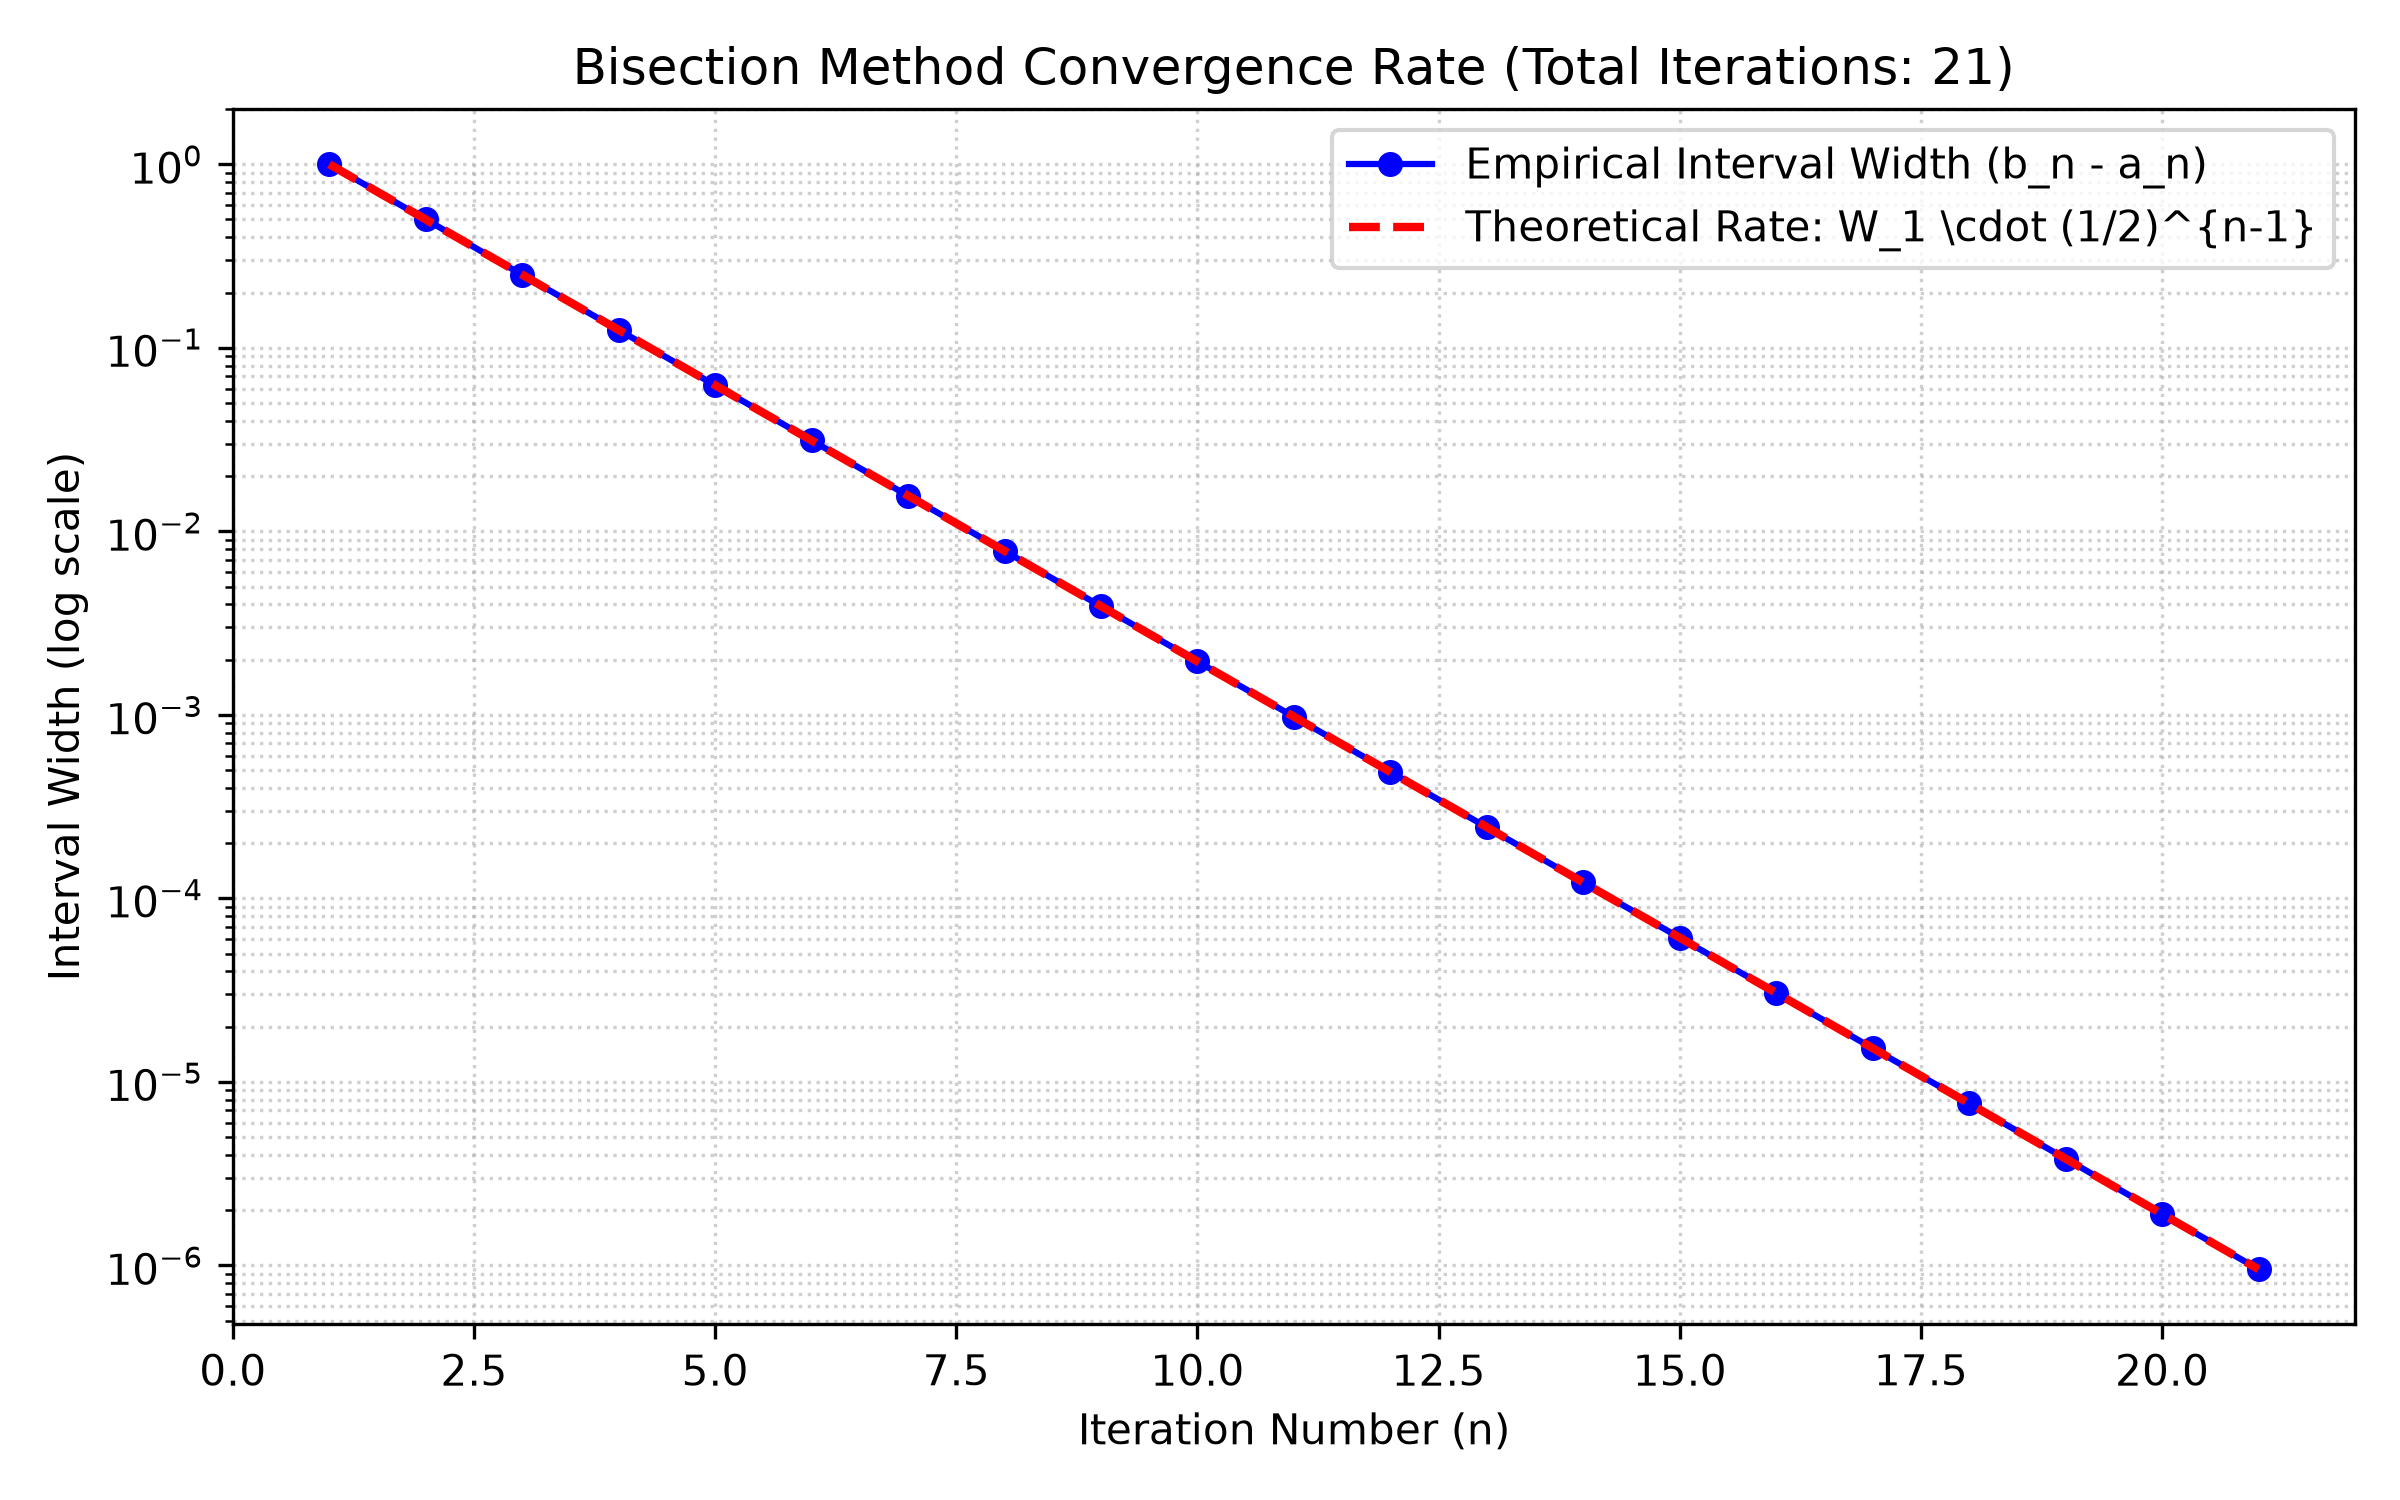
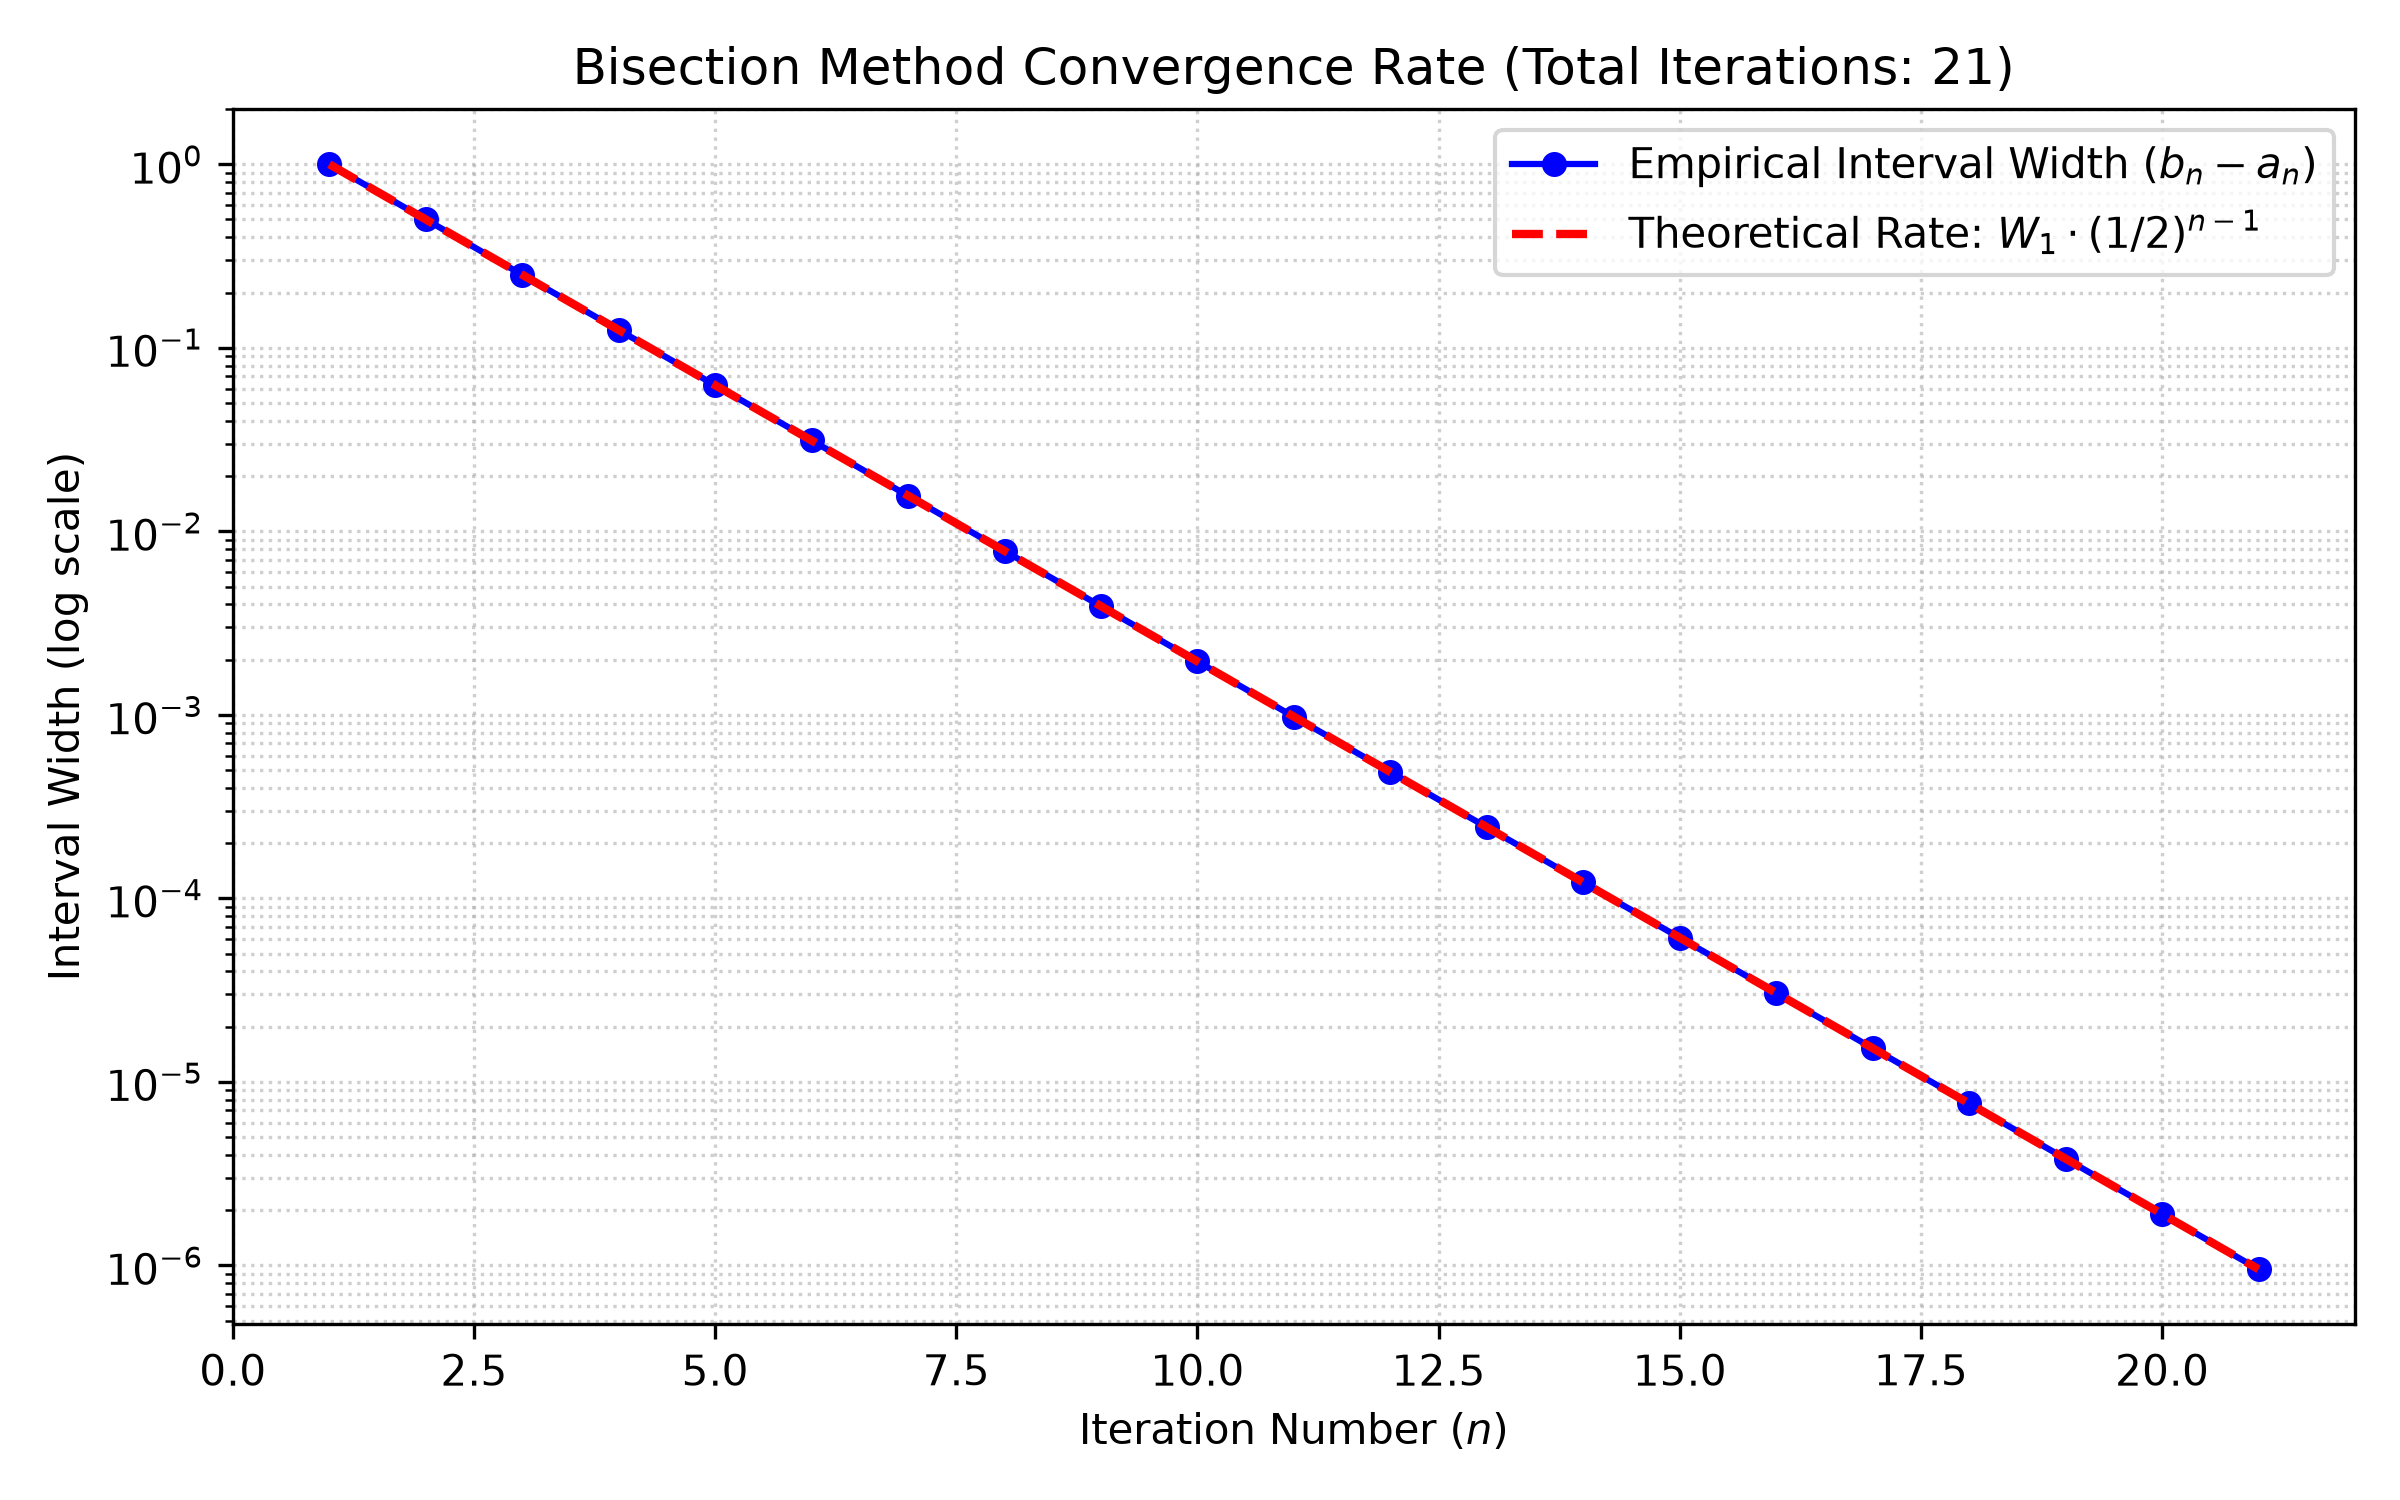
Add bisection method implementation

Changed region(s): [[0.5625, 0.092, 0.9688, 0.184], [0.5625, 0.9507, 0.625, 0.9813], [0.4688, 0.9507, 0.5, 0.9813]]

diff --git a/assignment_1/bisection_method.py b/assignment_1/bisection_method.py
@@ -45,6 +45,7 @@ def bisection(
     1.4142
     """
 
+<<<<<<< Updated upstream
     if not callable(f):
         raise TypeError(
             f"Parameter 'f' must be a callable function (e.g., lambda x: ...). Got type {type(f).__name__}."
@@ -52,6 +53,17 @@ def bisection(
 
     if a >= b:
         raise ValueError(a, " must be strictly less than", b)
+=======
+
+    if not callable(f): 
+        hint = " If you passed a SymPy expression, convert it using sympy.lambdify." if hasattr(f, "free_symbols") or str(type(f)).startswith("<class 'sympy") else ""
+        raise TypeError(
+            f"Parameter 'f' must be a callable function (e.g., lambda x: ...). Got type {type(f).__name__}.{hint}"
+        )
+
+    if a >= b :
+        raise ValueError(f"Endpoint 'a' must be strictly less than 'b' (a < b). Got a = {a}, b = {b}.")
+>>>>>>> Stashed changes
 
     if tol <= 0:
         raise ValueError("Tolerance has to be greater than 0")
@@ -88,9 +100,16 @@ def bisection(
             "a_priori_iterations": int(np.ceil(np.log2((b - a) / tol))),
         }
 
+    
+
     if np.sign(fa) * np.sign(fb) >= 0:
         raise ValueError(
+<<<<<<< Updated upstream
             "root is not bracketed product of fa and fb must have opp signs"
+=======
+            f"Root is not bracketed: f(a) and f(b) must have opposite signs (f(a)*f(b) < 0). "
+            f"Got f({a}) = {fa} and f({b}) = {fb}."
+>>>>>>> Stashed changes
         )
 
     p_prev = None
@@ -100,8 +119,18 @@ def bisection(
 
     a_priori_iterations = int(np.ceil(np.log2((b - a) / tol)))
 
+<<<<<<< Updated upstream
     for n in range(1, max_iter + 1):
         p = a + (b - a) / 2
+=======
+    if verbose:
+        print(f"{'n':<5} | {'a':<14} | {'b':<14} | {'p':<14} | {'f(p)':<14} | {'Width':<12}")
+        print("-" * 80)
+
+
+    for n in range (1 , max_iter+1):
+        p = a + (b-a)/2 
+>>>>>>> Stashed changes
         fp = f(p)
 
         interval_w = interval(a, b)
@@ -178,7 +207,7 @@ def plot_convergence(result):
         iterations,
         interval_widths,
         "bo-",
-        label="Empirical Interval Width (b_n - a_n)",
+        label="Empirical Interval Width $(b_n - a_n)$",
         linewidth=1.5,
         markersize=5,
     )
@@ -186,11 +215,11 @@ def plot_convergence(result):
         iterations,
         theoretical_widths,
         "r--",
-        label="Theoretical Rate: W_1 \\cdot (1/2)^{n-1}",
+        label="Theoretical Rate: $W_1 \\cdot (1/2)^{n-1}$",
         linewidth=2,
     )
 
-    plt.xlabel("Iteration Number (n)")
+    plt.xlabel("Iteration Number ($n$)")
     plt.ylabel("Interval Width (log scale)")
     plt.title(
         f"Bisection Method Convergence Rate (Total Iterations: {len(iterations)})"
@@ -201,7 +230,7 @@ def plot_convergence(result):
 
     output_filename = "bisection_convergence.png"
     plt.savefig(output_filename, dpi=300)
-    plt.close()  # Close figure to free memory
+    plt.close()  # Close to free memory
 
     print(f"Convergence plot saved successfully to {output_filename}")
 
@@ -273,12 +302,14 @@ if __name__ == "__main__":
 
     # -------------------------------------------------------------------------
     # Test Case (i): f(x) = x^3 - x - 2 on [1, 2], error_type="interval", tol=1e-6
+    # Demonstrating verbose=True table printout with header row
     # -------------------------------------------------------------------------
     print("\n" + "=" * 30 + " TEST CASE (i) " + "=" * 30)
+    print("Demonstrating verbose=True table printout:")
     f1 = lambda x: x**3 - x - 2
-    res1 = bisection(f1, 1.0, 2.0, tol=1e-6, error_type="interval", verbose=False)
+    res1 = bisection(f1, 1.0, 2.0, tol=1e-6, error_type="interval", verbose=True)
 
-    print(f"Target function: f(x) = x^3 - x - 2 on [1.0, 2.0]")
+    print(f"\nTarget function: f(x) = x^3 - x - 2 on [1.0, 2.0]")
     print(f"Root: {res1['root']}")
     print(f"Converged: {res1['converged']}")
     print(f"Reason: {res1['reason']}")
@@ -320,13 +351,13 @@ if __name__ == "__main__":
     # -------------------------------------------------------------------------
     print("\n" + "=" * 30 + " TEST CASE (iii) " + "=" * 30)
 
-    # 1. a >= b
+    # 1. a >= b (demonstrates single formatted string instead of tuple)
     try:
         bisection(f1, 2.0, 1.0)
     except ValueError as e:
         print(f"[Caught Edge Case 1 (a >= b)]: {e}")
 
-    # 2. f(a) and f(b) have the same sign
+    # 2. f(a) and f(b) have the same sign (reports actual f(a) and f(b))
     try:
         bisection(lambda x: x**2 - 1, -0.5, 0.5)
     except ValueError as e:
@@ -362,11 +393,12 @@ if __name__ == "__main__":
     except ValueError as e:
         print(f"[Caught Edge Case 7 (Invalid error_type)]: {e}")
 
-    # 8. f is not callable
+    # 8. f is not callable (tested with a SymPy expression to trigger lambdify guidance)
     try:
-        bisection("not_callable", 1.0, 2.0)
+        x_sym = sp.Symbol('x')
+        bisection(x_sym**2 - 2, 1.0, 2.0)
     except TypeError as e:
-        print(f"[Caught Edge Case 8 (f not callable)]: {e}")
+        print(f"[Caught Edge Case 8 (f not callable, SymPy hint)]: {e}")
 
     # 9. max_iter reached without convergence (e.g. max_iter=3)
     res_max = bisection(f1, 1.0, 2.0, tol=1e-8, max_iter=3)
@@ -374,26 +406,34 @@ if __name__ == "__main__":
         f"[Handled Edge Case 9 (max_iter too low)]: Converged = {res_max['converged']}, Reason = '{res_max['reason']}'"
     )
 
+    # 10. Relative error safeguard near zero: f(x) = x on [-1, 2]
+    res_zero = bisection(lambda x: x, -1.0, 2.0, tol=1e-8, error_type="relative")
+    print(f"[Handled Edge Case 10 (Relative error near zero root)]: Root = {res_zero['root']:.2e}, Iters = {res_zero['iterations']}, Converged = {res_zero['converged']}")
+
     # -------------------------------------------------------------------------
-    # Test Case (iv): f(x) = sin(4*pi*x) on [0, 1]
-    # Note: f(0) = sin(0) = 0 and f(1) = sin(4*pi) = 0, so [0, 1] does NOT satisfy f(a)*f(b) < 0.
-    # We demonstrate this bracketing failure first, then solve on a valid sub-interval.
+    # Test Case (iv): f(x) = sin(4*pi*x) on [0, 1] and multi-root bracket [0.1, 0.9]
     # -------------------------------------------------------------------------
     print("\n" + "=" * 30 + " TEST CASE (iv) " + "=" * 30)
     f_sin = lambda x: np.sin(4 * np.pi * x)
-    try:
-        print("Attempting bisection on full interval [0, 1]:")
-        bisection(f_sin, 0.0, 1.0)
-    except ValueError as e:
-        print(f"Verification: [0, 1] fails opposite sign requirement as expected: {e}")
 
-    # Choose valid sub-bracket containing root at x = 0.25 (e.g. [0.1, 0.3])
-    # f(0.1) = sin(0.4*pi) > 0, f(0.3) = sin(1.2*pi) < 0
-    sub_a, sub_b = 0.1, 0.3
-    res_sin = bisection(f_sin, sub_a, sub_b, tol=1e-6, error_type="interval")
-    print(f"\nEvaluating valid sub-bracket [{sub_a}, {sub_b}]:")
-    print(f"Root found: {res_sin['root']:.6f} (Theoretical root: 0.25)")
-    print(f"Iterations: {res_sin['iterations']}")
+    # 1. Demonstration of [0, 1]: f(0) = 0 exactly hits the short-circuit condition
+    res_sin_01 = bisection(f_sin, 0.0, 1.0)
+    print("Full interval [0, 1] execution:")
+    print(f"  Result: Root = {res_sin_01['root']}, Iters = {res_sin_01['iterations']}, Reason = '{res_sin_01['reason']}'")
+    print("  Explanation: f(0) = sin(0) = 0.0, so Requirement (2) short-circuits immediately without iterating.")
+
+    # 2. Multi-root interval [0.1, 0.9]: contains roots at x = 0.25, 0.5, 0.75
+    # f(0.1) = sin(0.4*pi) ≈ 0.9511 > 0, f(0.9) = sin(3.6*pi) ≈ -0.9511 < 0 -> Valid bracket!
+    sub_a, sub_b = 0.1, 0.9
+    res_multi = bisection(f_sin, sub_a, sub_b, tol=1e-6, error_type="interval")
+    print(f"\nMulti-root bracket [{sub_a}, {sub_b}] (Contains roots at 0.25, 0.5, 0.75):")
+    print(f"  Root found: {res_multi['root']:.6f}")
+    print(f"  Iterations: {res_multi['iterations']}")
+    print("  Trajectory of midpoints: ")
+    print(f"    p1 = {res_multi['history'][0]['p']:.4f}, f(p1) = {res_multi['history'][0]['f_p']:.4f} -> f(0.5) = 0, updates bracket")
+    print(f"    p2 = {res_multi['history'][1]['p']:.4f}, f(p2) = {res_multi['history'][1]['f_p']:.4f} -> f(0.3) < 0, updates b = 0.3")
+    print(f"    p3 = {res_multi['history'][2]['p']:.4f}, f(p3) = {res_multi['history'][2]['f_p']:.4f} -> f(0.2) > 0, updates a = 0.2")
+    print(f"    p4 = {res_multi['history'][3]['p']:.4f}, f(p4) = {res_multi['history'][3]['f_p']:.4f} -> converges towards root 0.25")
 
     # -------------------------------------------------------------------------
     # Test Case (v): Convergence Plot Generation
@@ -401,3 +441,10 @@ if __name__ == "__main__":
     print("\n" + "=" * 30 + " TEST CASE (v) " + "=" * 30)
     plot_convergence(res1)
     print("All test cases completed successfully.")
+<<<<<<< Updated upstream
+=======
+
+        
+
+
+>>>>>>> Stashed changes
